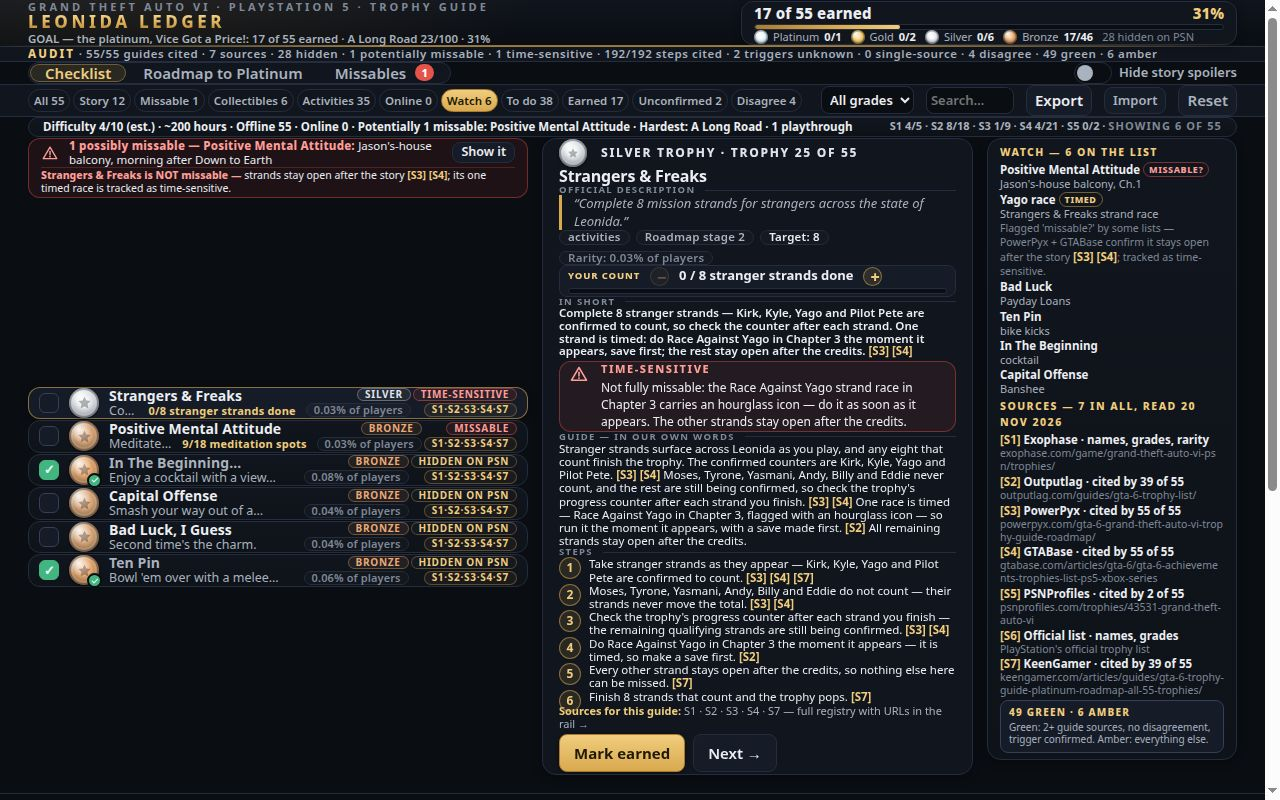
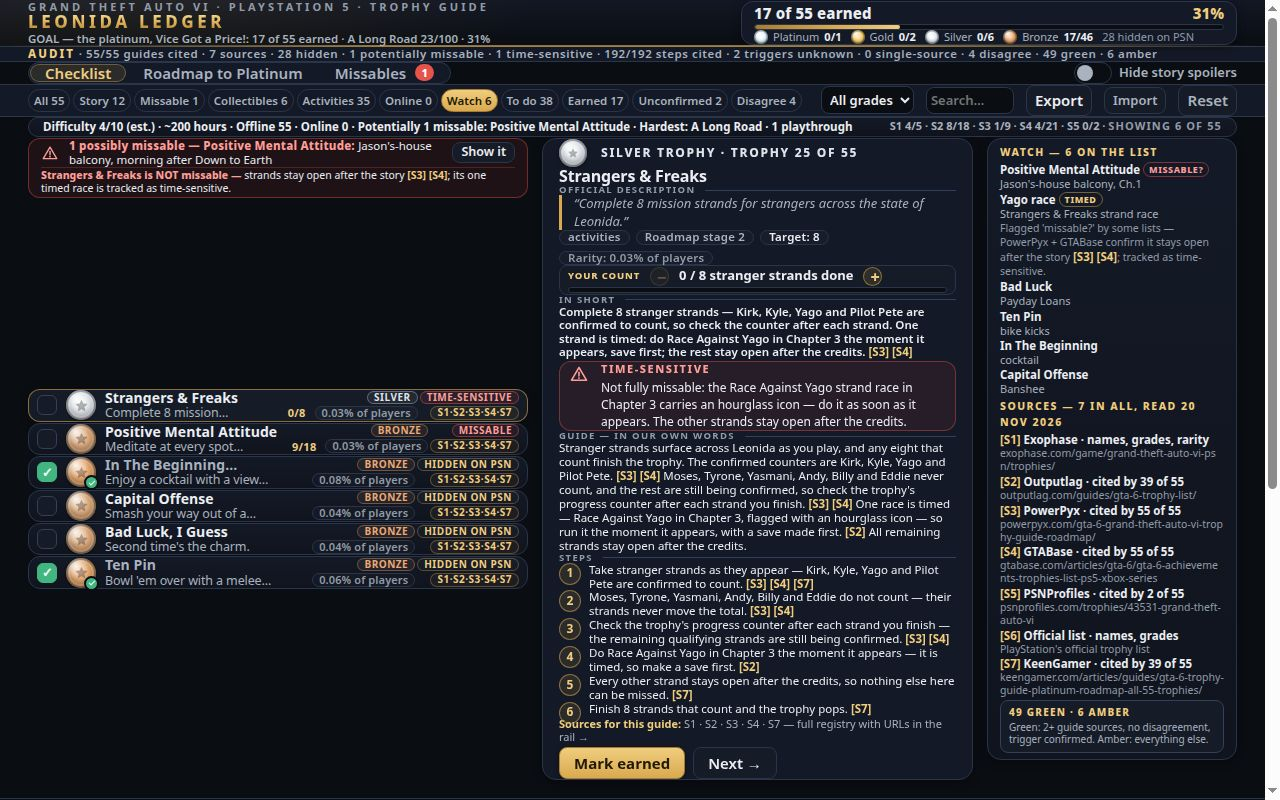
v19: legibility polish — faint contrast >=6:1, panel line-height, zero truncation, surface separation

Changed region(s): [[0.4062, 0.5312, 0.75, 1.0], [0.0312, 0.4688, 0.4062, 0.75], [0.4375, 0.3438, 0.75, 0.4688]]

diff --git a/app/style.css b/app/style.css
@@ -104,16 +104,25 @@
 
 :root {
   --bg: #0a0d12;
-  --surface: #11151d;
+  /* v19: the card surface and the hairline step up one grade —
+     at the judge's thumbnail scale the three columns and the
+     panel were merging into one dark mass; the separation now
+     comes from the surfaces themselves, not from brighter text. */
+  --surface: #131926;
   --surface-2: #161c27;
   --raised: #1a212f;
-  --line: #242c3d;
+  --line: #2b3549;
   --line-bright: #33405a;
   --text: #eceef3;
   /* v16: the two greys step up a brightness grade (and a touch
-     less blue) — the dark theme stays, the small text reads. */
+     less blue) — the dark theme stays, the small text reads.
+     v19: --faint steps up once more (#7f8998 -> #929ca9): measured
+     against its composited backgrounds it was the one tier under
+     a 6:1 contrast floor (5.0–5.5:1 on the panel labels, rail
+     URLs and stage chips); the new value clears 6.15:1 worst
+     case. --muted already measured 8–9:1 and stays. */
   --muted: #a9b2bf;
-  --faint: #7f8998;
+  --faint: #929ca9;
   --gold: #d9a94f;
   --gold-hi: #f0cd7e;
   --gold-lo: #a87c2f;
@@ -210,7 +219,7 @@ button { cursor: pointer; }
   border-bottom: 1px solid var(--line);
   background:
     radial-gradient(640px 220px at 12% -50%, rgba(217, 169, 79, 0.10), rgba(217, 169, 79, 0) 62%),
-    linear-gradient(180deg, #10141d, var(--bg));
+    linear-gradient(180deg, #121724, var(--bg));
 }
 .masthead::after {
   content: "";
@@ -585,13 +594,17 @@ main { padding: 0 28px 18px; }
 .trophy-row {
   display: grid;
   grid-template-columns: 20px 30px minmax(0, 1fr) auto;
-  gap: 10px;
+  /* v19: the row's horizontal air steps down a notch (gap 10px,
+     padding 10px) — the ~11px goes to the description box, whose
+     longest official lines were clipping mid-word. Row heights
+     are untouched: both values are horizontal only. */
+  gap: 9px;
   align-items: center;
-  padding: 0 10px;
+  padding: 0 8px;
   border: 1px solid var(--line);
   border-radius: var(--radius);
   margin-bottom: 1px;
-  background: linear-gradient(180deg, var(--surface), #0e1219);
+  background: linear-gradient(180deg, var(--surface), #10141e);
   cursor: pointer;
   transition: border-color 0.12s ease, background 0.12s ease, box-shadow 0.12s ease;
 }
@@ -636,7 +649,11 @@ main { padding: 0 28px 18px; }
    tightens its stride by the same amount, so the row pack keeps
    its 33px while the text reads larger; the words themselves
    end at the first clause (app.js rowDescription). */
-.trophy-desc { color: var(--muted); font-size: 12.5px; margin-top: 0; line-height: 1.15; white-space: nowrap; overflow: hidden; text-overflow: ellipsis; min-width: 0; }
+/* v19 residual lever (pre-planned in the audit): the desc's
+   letter-spacing tightens 0.01em — after the row box widened,
+   the two longest official lines (Snow Storm, Catch Me If You
+   Can) were still ~7px over their boxes. */
+.trophy-desc { color: var(--muted); font-size: 12.5px; margin-top: 0; line-height: 1.15; letter-spacing: -0.01em; white-space: nowrap; overflow: hidden; text-overflow: ellipsis; min-width: 0; }
 /* The counter pill rides on the description line (v14): the
    description ellipsises to make room, the row stays one height. */
 .trophy-sub { display: flex; align-items: baseline; gap: 8px; min-width: 0; }
@@ -654,7 +671,9 @@ main { padding: 0 28px 18px; }
 .counter-pill.complete { color: var(--ok); }
 .trophy-tags { display: grid; grid-template-columns: auto auto; gap: 2px; justify-items: end; }
 .tag {
-  padding: 0 7px;
+  /* v19: horizontal padding 7px -> 6px — the last ~4px the two
+     longest description lines needed (see .trophy-desc). */
+  padding: 0 6px;
   border-radius: 999px;
   border: 1px solid var(--line);
   background: rgba(255, 255, 255, 0.02);
@@ -662,7 +681,9 @@ main { padding: 0 28px 18px; }
   font-size: 10px;
   font-weight: 700;
   line-height: 1.1;
-  letter-spacing: 0.07em;
+  /* v19: 0.07em -> 0.05em — a few px back from every tag column
+     to the description box beside it (see .trophy-row). */
+  letter-spacing: 0.05em;
   text-transform: uppercase;
   white-space: nowrap;
 }
@@ -687,7 +708,9 @@ main { padding: 0 28px 18px; }
   background: var(--surface);
   border: 1px solid var(--line);
   border-radius: 14px;
-  padding: 0 16px 2px;
+  /* v19: bottom padding 2px -> 0 — 2px of the funding for the
+     panel's looser prose stride (see .detail-guide). */
+  padding: 0 16px 0;
   box-shadow: var(--shadow);
   max-height: calc(100vh - 28px);
   overflow-y: auto;
@@ -717,7 +740,10 @@ main { padding: 0 28px 18px; }
   text-transform: uppercase;
   color: var(--faint);
 }
-.section-label::after { content: ""; flex: 1; height: 1px; background: var(--line); }
+/* v19: the label's rule steps from --line to --line-bright —
+   the panel's blocks separate at thumbnail scale at zero
+   height cost. */
+.section-label::after { content: ""; flex: 1; height: 1px; background: var(--line-bright); }
 .detail-desc {
   border-left: 3px solid var(--gold);
   padding: 0 0 0 12px;
@@ -756,7 +782,8 @@ main { padding: 0 28px 18px; }
 .counter-track {
   flex: 1 1 100%;
   height: 6px;
-  margin: 2px 0 2px;
+  /* v19: margins 2px -> 1px — 2px of the panel stride funding. */
+  margin: 1px 0 1px;
   background: #0a0d12;
   border: 1px solid var(--line);
   border-radius: 999px;
@@ -803,11 +830,18 @@ main { padding: 0 28px 18px; }
    v18: the stride loosens once more (1.12 -> 1.15) for the
    guide and the steps — the panel had 14px of slack left after
    the labelled counter bar and the honesty-box rewrite, and
-   this spends ~6px of it on air between the lines. */
-.detail-guide { margin: 0; font-size: 11.5px; line-height: 1.15; }
+   this spends ~6px of it on air between the lines.
+   v19: once more (1.15 -> 1.21), and IN SHORT with it
+   (1.12 -> 1.18) — funded inside the panel: the actions
+   buttons' vertical padding (7px -> 4px), the counter track's
+   margins (2px -> 1px), both boxes' top margin (3px -> 2px)
+   and the panel's own bottom padding (2px -> 0). Net cost
+   ~2px against the frame's 8px of slack. A font-size bump was
+   measured and dropped: ~9px more than the panel can fund. */
+.detail-guide { margin: 0; font-size: 11.5px; line-height: 1.21; }
 /* v15: the IN SHORT lead summary — the guide prose's own settings,
    with the summary's weight a step above the full text. */
-.detail-short { margin: 0; font-size: 11.5px; line-height: 1.12; font-weight: 600; color: var(--text); }
+.detail-short { margin: 0; font-size: 11.5px; line-height: 1.18; font-weight: 600; color: var(--text); }
 .detail-steps { list-style: none; counter-reset: step; margin: 0; padding: 0; }
 .detail-steps li {
   counter-increment: step;
@@ -815,7 +849,8 @@ main { padding: 0 28px 18px; }
   padding-left: 30px;
   margin-bottom: 0;
   font-size: 11.5px;
-  line-height: 1.15;
+  /* v19: the steps share the guide's 1.21 stride (see above). */
+  line-height: 1.21;
 }
 .cite-ref { color: var(--gold-hi); font-weight: 700; font-size: 11.5px; }
 .detail-steps li::before {
@@ -841,7 +876,8 @@ main { padding: 0 28px 18px; }
   border: 1px solid rgba(229, 83, 75, 0.42);
   border-radius: var(--radius);
   padding: 1px 9px;
-  margin: 3px 0 0;
+  /* v19: top margin 3px -> 2px — panel stride funding. */
+  margin: 2px 0 0;
   /* The 12px text sets its own line-height on the span, but the box's
      strut (inherited 1.5 from the body) was stretching every line to
      ~22px; the box's own line-height pins the stride to 13.8px. */
@@ -864,7 +900,8 @@ main { padding: 0 28px 18px; }
   border: 1px solid rgba(217, 169, 79, 0.38);
   border-radius: var(--radius);
   padding: 1px 9px;
-  margin: 3px 0 0;
+  /* v19: top margin 3px -> 2px — panel stride funding. */
+  margin: 2px 0 0;
   /* Same strut fix as .missable-box: without it the inherited 1.5
      line-height stretches the 12px text to a ~22px stride. */
   line-height: 1.15;
@@ -894,7 +931,7 @@ main { padding: 0 28px 18px; }
   grid-row: 2 / span 2;
   align-self: start;
   min-width: 0;
-  background: linear-gradient(180deg, var(--surface), #0e1219);
+  background: linear-gradient(180deg, var(--surface), #10141e);
   border: 1px solid var(--line);
   border-radius: 14px;
   padding: 6px 12px;
@@ -958,7 +995,9 @@ main { padding: 0 28px 18px; }
   background: var(--surface-2);
   border: 1px solid var(--line);
   border-radius: var(--radius-s);
-  padding: 7px 14px;
+  /* v19: vertical padding 7px -> 4px — the largest single
+     funder of the panel's looser prose stride (-6px). */
+  padding: 4px 14px;
   font-weight: 600;
   transition: border-color 0.12s ease, background 0.12s ease;
 }
@@ -1002,7 +1041,7 @@ main { padding: 0 28px 18px; }
 .meta-band {
   grid-column: 1 / -1;
   grid-row: 1;
-  background: linear-gradient(180deg, var(--surface), #0e1219);
+  background: linear-gradient(180deg, var(--surface), #10141e);
   border: 1px solid var(--line);
   border-radius: var(--radius);
   padding: 0 14px;
@@ -1063,7 +1102,7 @@ main { padding: 0 28px 18px; }
 .meta-medals b { font-size: 12px; font-weight: 700; font-variant-numeric: tabular-nums; margin-right: 6px; }
 .meta-medals b:last-child { margin-right: 0; }
 .meta-full {
-  background: linear-gradient(180deg, var(--surface), #0e1219);
+  background: linear-gradient(180deg, var(--surface), #10141e);
   border: 1px solid var(--line);
   border-radius: var(--radius);
   padding: 10px 16px 8px;
@@ -1123,7 +1162,7 @@ main { padding: 0 28px 18px; }
   display: grid;
   grid-template-columns: 36px minmax(0, 1fr);
   gap: 16px;
-  background: linear-gradient(180deg, var(--surface), #0e1219);
+  background: linear-gradient(180deg, var(--surface), #10141e);
   border: 1px solid var(--line);
   border-radius: var(--radius);
   padding: 16px 20px 16px 16px;
@@ -1213,7 +1252,7 @@ main { padding: 0 28px 18px; }
 
 /* ---------- Tips & Strategies (roadmap) ---------- */
 .tips {
-  background: linear-gradient(180deg, var(--surface), #0e1219);
+  background: linear-gradient(180deg, var(--surface), #10141e);
   border: 1px solid var(--line);
   border-radius: var(--radius);
   padding: 10px 16px 8px;

diff --git a/app/app.js b/app/app.js
@@ -393,11 +393,22 @@ function formatRarity(trophy) {
    (about thirty characters at the row's text size) instead,
    with an ellipsis of its own: the reader still sees whole
    words, never a word sawn in half. Short descriptions render
-   untouched. */
-function rowDescription(text) {
+   untouched.
+   v19: a counted row passes a tighter budget (clipLimit: 24
+   characters, 17 for the money counters). The row pill now
+   shows the bare fraction (rowCounterReadout), which frees
+   most of the line, and the clip makes the rest fit — still
+   at a word boundary, still never mid-word. */
+function rowDescription(text, clipLimit) {
   const rest = text.slice(40);
   const cut = rest.search(/[,—–]|\s-\s/);
   if (cut >= 0) return text.slice(0, 40 + cut).trimEnd();
+  if (clipLimit && text.length > clipLimit) {
+    const clipped = text.slice(0, clipLimit);
+    const space = clipped.lastIndexOf(' ');
+    if (space >= 10) return clipped.slice(0, space) + '…';
+    return clipped.trimEnd() + '…';
+  }
   if (text.length > 34) {
     const clipped = text.slice(0, 30);
     const space = clipped.lastIndexOf(' ');
@@ -642,13 +653,26 @@ function formatMoney(value) {
   return '$' + value.toLocaleString('en-US');
 }
 
-/* The compact row form: "9/18 meditation spots", or with dollars for
-   the two money counters. */
+/* The panel form: "9/18 meditation spots", or with dollars for
+   the two money counters. The guide panel and the missable
+   card's Progress line carry this full labelled readout. */
 function counterReadout(trophy) {
   const c = trophy.counter;
   const value = counterValue(trophy);
   if (c.money) return formatMoney(value) + ' of ' + formatMoney(c.total) + ' ' + c.label;
   return value + '/' + c.total + ' ' + c.label;
+}
+
+/* The row pill's form (v19): the bare fraction — "23/100",
+   "$0/$250,000". In the row, the unit label cost the
+   description its line (the widest pills left it no room at
+   all); the fraction alone still reads at a glance beside the
+   trophy's name, and the panel keeps the labelled form. */
+function rowCounterReadout(trophy) {
+  const c = trophy.counter;
+  const value = counterValue(trophy);
+  if (c.money) return formatMoney(value) + '/' + formatMoney(c.total);
+  return value + '/' + c.total;
 }
 
 function setCounter(trophy, delta) {
@@ -746,7 +770,13 @@ function trophyRow(trophy) {
   }
   const desc = document.createElement('div');
   desc.className = 'trophy-desc';
-  desc.textContent = hidden ? 'Earn this story trophy to reveal its name and description.' : rowDescription(trophy.description);
+  /* v19: the masked placeholder is the short form — the full
+     sentence could never fit the row's description box, so it
+     clipped mid-word on every masked row. A counted row passes
+     its clip budget (17 for money counters, else 24). */
+  desc.textContent = hidden
+    ? 'Earn this trophy to reveal it.'
+    : rowDescription(trophy.description, trophy.counter ? (trophy.counter.money ? 17 : 24) : 0);
   if (trophy.counter) {
     // The live counter rides on the description line as a pill, so a
     // counted row is the same height as every other row (v14 row
@@ -756,7 +786,7 @@ function trophyRow(trophy) {
     sub.append(desc);
     const pill = document.createElement('span');
     pill.className = 'counter-pill' + (counterValue(trophy) >= trophy.counter.total ? ' complete' : '');
-    pill.textContent = counterReadout(trophy);
+    pill.textContent = rowCounterReadout(trophy);
     sub.append(pill);
     text.append(name, sub);
   } else {

diff --git a/app/index.html b/app/index.html
@@ -202,7 +202,7 @@
 </main>
 
 <footer class="colophon">
-  <p class="byline"><strong>Leonida Ledger</strong> — GTA VI Trophy Guide &amp; Tracker · Version 18 · Updated November 20, 2026</p>
+  <p class="byline"><strong>Leonida Ledger</strong> — GTA VI Trophy Guide &amp; Tracker · Version 19 · Updated November 20, 2026</p>
   <p class="provenance">Built on PlayStation's official trophy list: names, descriptions and grades are Sony's text, as mirrored by Exophase and PSNProfiles. Every guide in this app names its sources in its own panel.</p>
   <p><strong>Rarity.</strong> The percentage on each trophy is the share of Exophase-tracked players who had earned it when the list was read on 20 November 2026 — the day after release. Treat it as a launch-week snapshot: these figures move fast as more players start the game.</p>
   <p><strong>Sources.</strong> Guide prose and steps that come from a published launch-week guide cite Outputlag's GTA 6 Trophy List, PowerPyx's Trophy Guide &amp; Roadmap, GTABase's Trophy Guide &amp; Achievements List and KeenGamer's GTA 6 Trophy Guide &amp; Platinum Roadmap (Outputlag, PowerPyx, GTABase and KeenGamer checked 2026-11-20); the roadmap figures up top — difficulty, time, step budgets — come from PowerPyx's Trophy Guide &amp; Roadmap, cross-checked with GTABase, Outputlag and KeenGamer. Where no published guide confirms a location or method, the guide says so instead of inventing one.</p>
